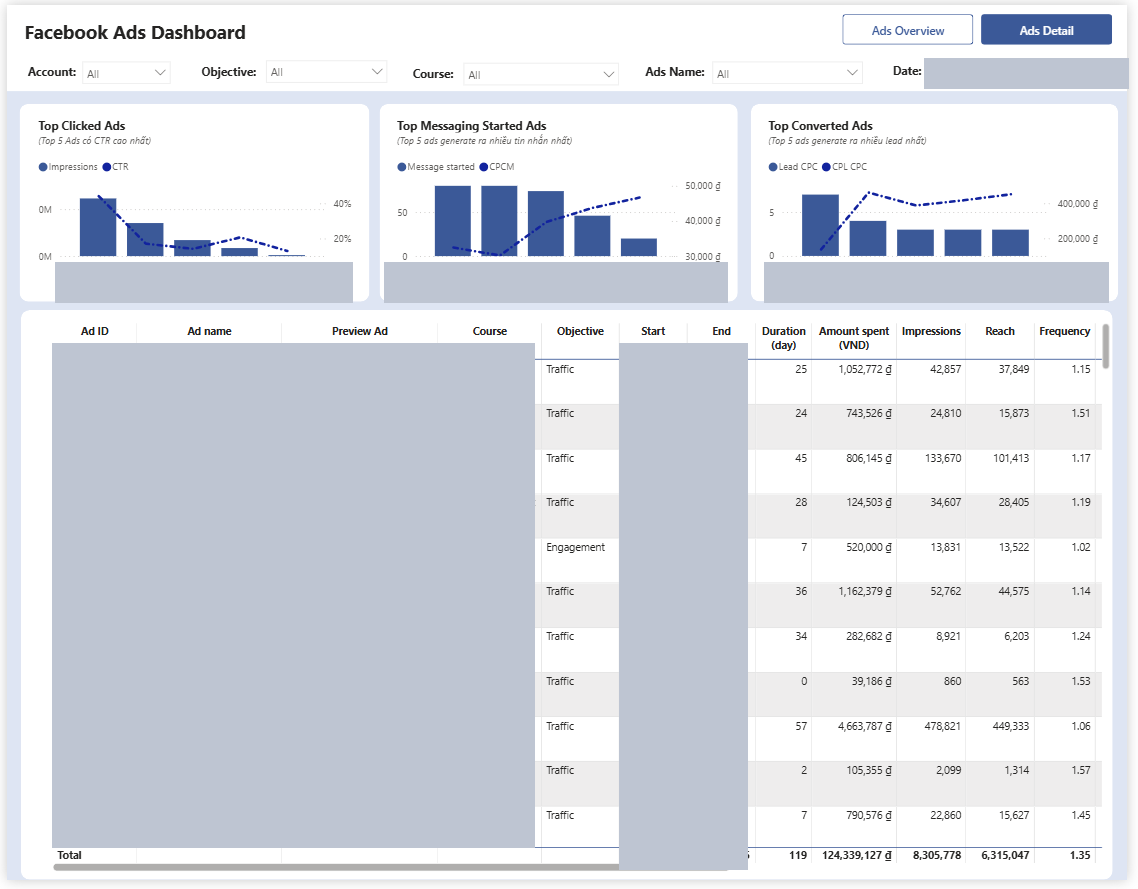
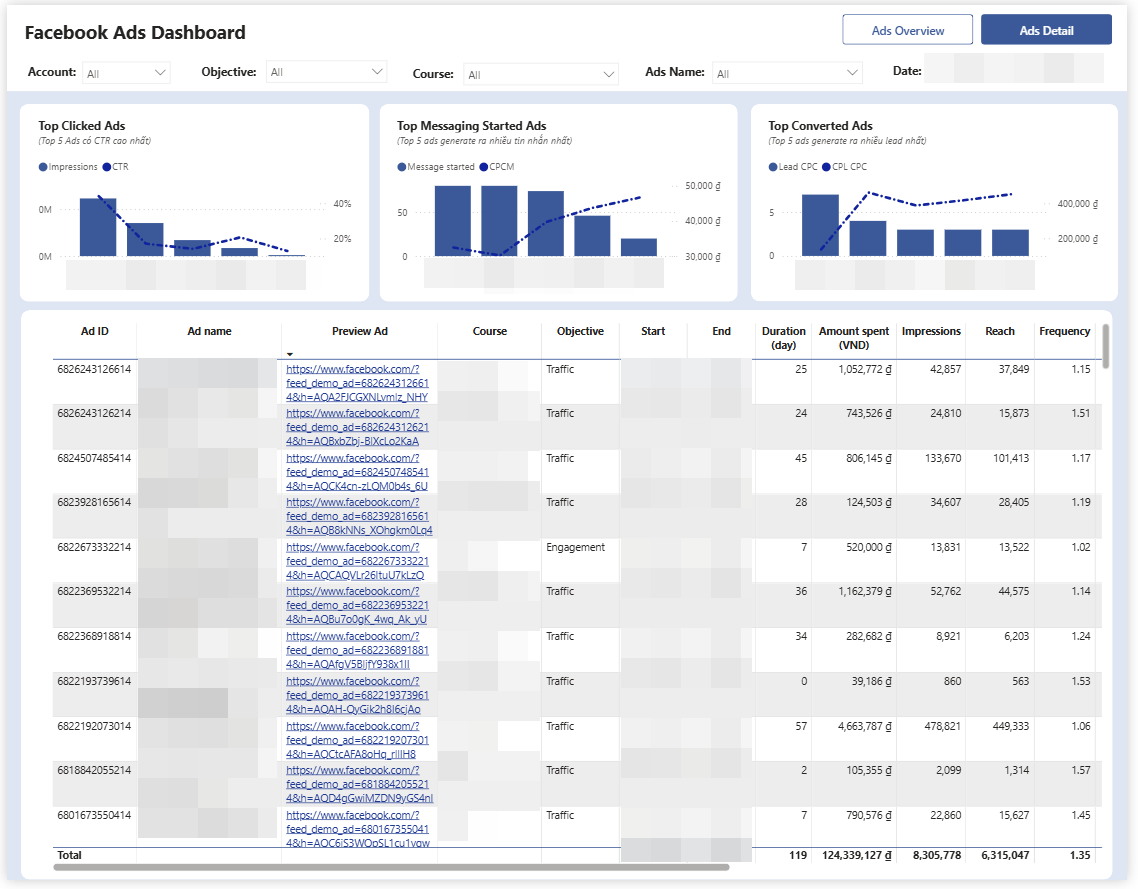
Docs: use the author's own blurred dashboard screenshots
Claude-Session: https://claude.ai/code/session_01FE233U4YTNJntBW99dBEpw

diff --git a/README.md b/README.md
@@ -57,7 +57,7 @@ For regular monitoring of every ad. The questions it answers:
 
 ![CPL Report](docs/images/dashboard-cpl-report.png)
 
-*Screenshots of the dashboard on data from a past period. Ad IDs, ad names, links, UTM, course names, account names and dates are hidden.*
+*Screenshots of the dashboard on data from a past period. Ad names, account names, dates and the course column are blurred.*
 
 Each ad is read with the metrics of its own objective → [Metric Definitions](docs/metric-definitions.md).
 
@@ -258,4 +258,4 @@ The structure and logic come from the real pipeline. In this public copy:
 
 - The GCP project ID is a placeholder (`your-project-id`).
 - Course names, ad names and campaign names in [`dim_ad_course_mapping`](transform/definitions/marts/dim_ad_course_mapping.sqlx) are **fictional**; the matching rules (prefix / exact / contains / campaign + ad) are unchanged.
-- No ad account IDs, tokens or customer records are included. The dashboard screenshots show aggregated figures from a past period; everything that identifies an ad, a course, an account or a date is hidden.
+- No ad account IDs, tokens or customer records are included. The dashboard screenshots show figures from a past period, with ad names, account names, dates and the course column blurred.
